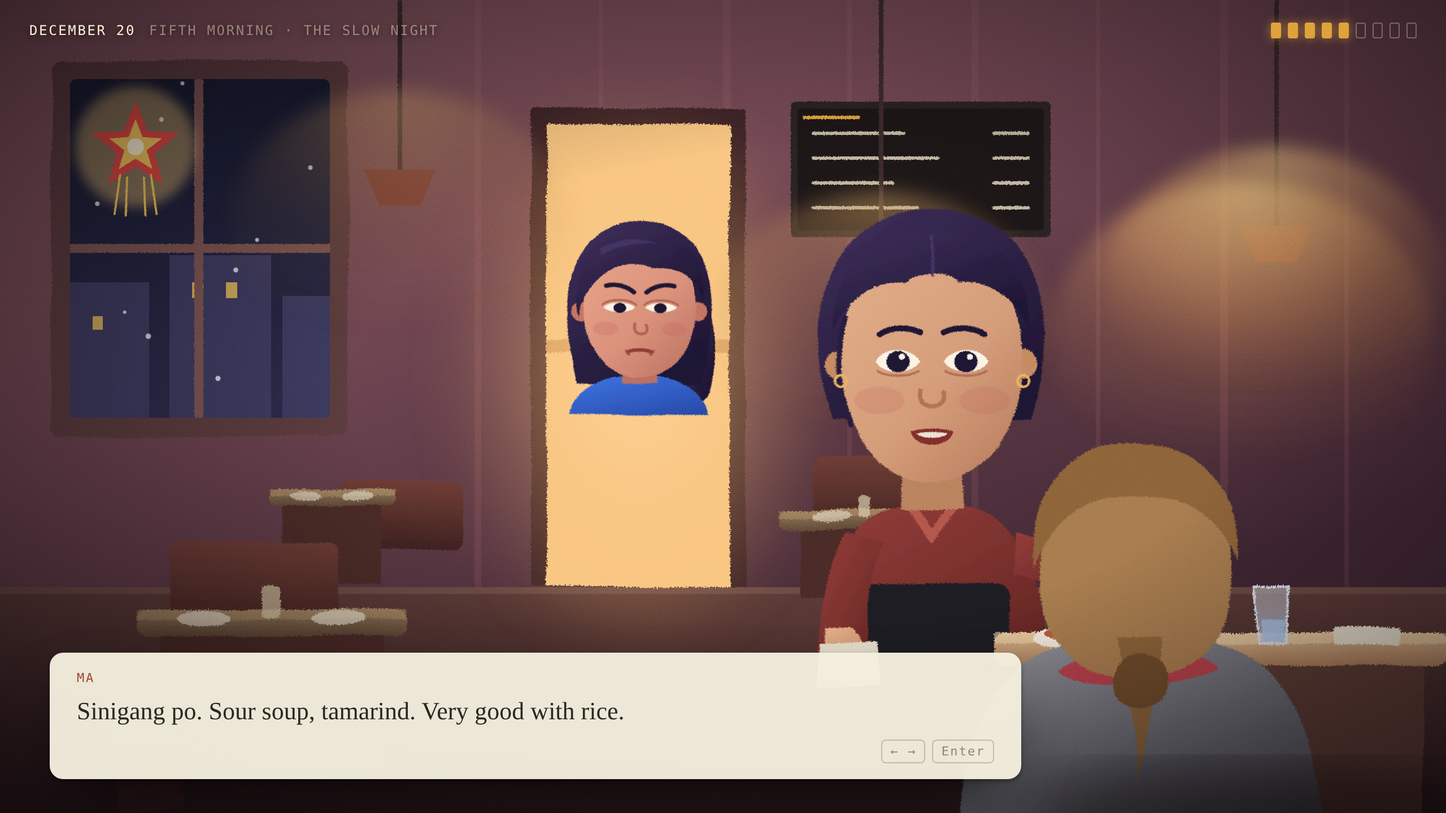
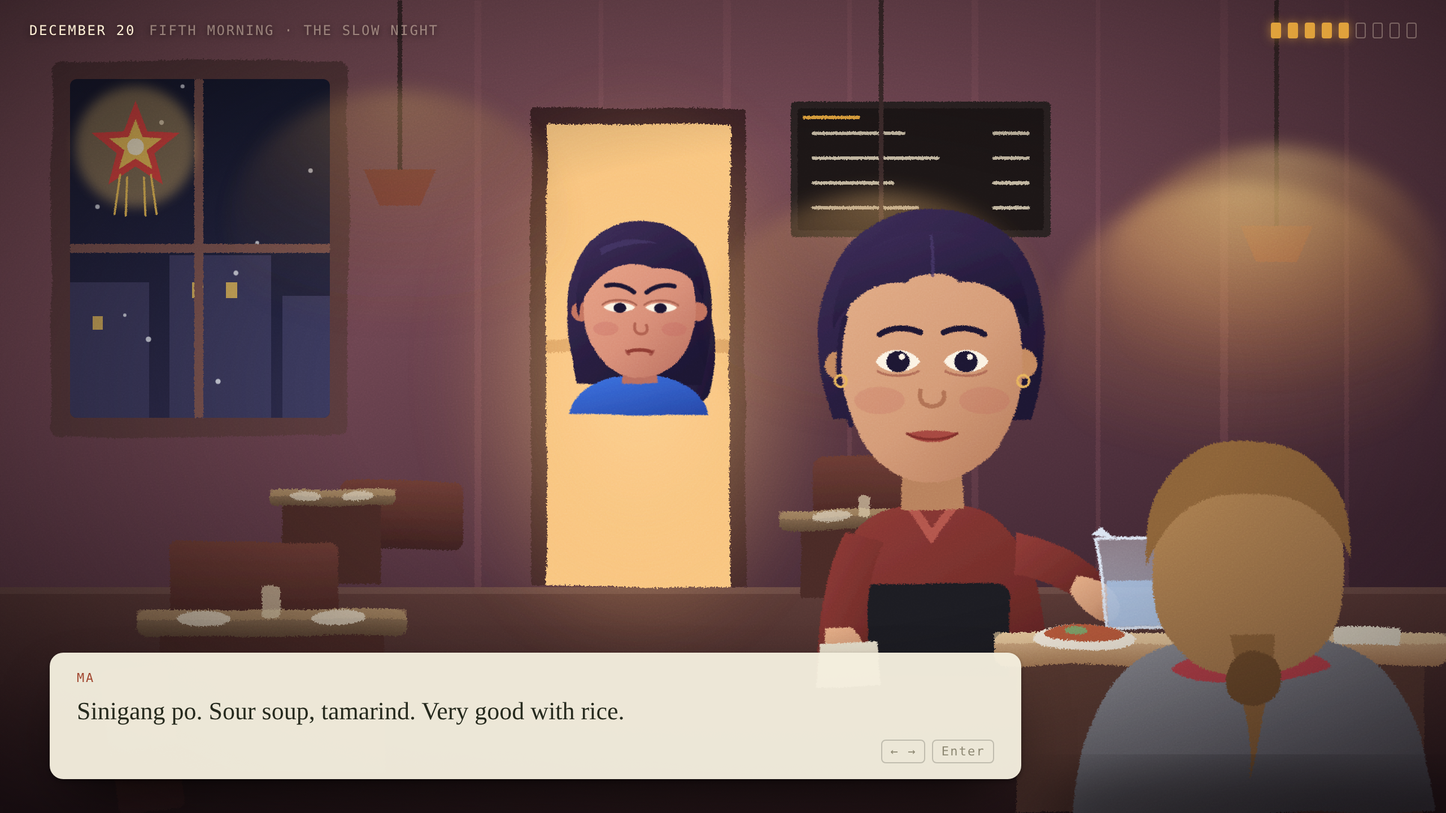
Restaurant: position the customer on a wrapper so the lean animation cannot override it
Claude-Session: https://claude.ai/code/session_01EQTHH2fQmMpKD6VoY7kv8Y

Changed region(s): [[0.6562, 0.5312, 1.0, 1.0], [0.625, 0.5312, 0.6562, 0.5625]]

diff --git a/assets/samples/scene-restaurant.html b/assets/samples/scene-restaurant.html
@@ -25,7 +25,7 @@
   .talk .m-a{animation:talk .28s steps(1,end) infinite}.talk .m-b{animation:talkB .28s steps(1,end) infinite}
   /* the customer leans back into the chair */
   @keyframes lean{0%,100%{transform:rotate(0)}50%{transform:rotate(-1.8deg) translateY(2px)}}
-  .lean{transform-origin:1110px 700px;animation:lean 5.2s ease-in-out infinite}
+  .lean{transform-origin:1010px 700px;animation:lean 5.2s ease-in-out infinite}
   /* Tala shifts her weight in the doorway */
   @keyframes sway{0%,100%{transform:translateX(0) rotate(0)}50%{transform:translateX(3px) rotate(.6deg)}}
   .sway{transform-origin:140px 340px;animation:sway 4.6s ease-in-out infinite}
@@ -347,7 +347,7 @@
   </g>
   <ellipse cx="1100" cy="300" rx="170" ry="140" fill="url(#pendant)" filter="url(#mid)" class="lamp"/>
   <!-- the customer, from behind, foreground right : nobody the story needs a face for -->
-  <g class="lean" transform="translate(100 0)">
+  <g transform="translate(100 0)"><g class="lean">
     <g filter="url(#rough)">
       <path d="M 850 720 C 856 600 910 560 1010 556 C 1110 560 1164 600 1170 720 Z" fill="url(#coat)"/>
       <path d="M 940 590 C 960 566 1060 566 1080 590 C 1064 606 956 606 940 590 Z" fill="#b7404a"/>
@@ -356,7 +356,7 @@
       <path d="M 992 560 C 1000 600 1010 640 1006 690 C 1020 640 1030 600 1030 560 Z" fill="#8b6238"/>
       <path d="M 1010 574 C 1030 574 1040 590 1036 608 C 1032 626 1000 630 990 612 C 984 596 992 574 1010 574 Z" fill="#6e4c2a"/>
     </g>
-  </g>
+  </g></g>
   <ellipse cx="1110" cy="716" rx="200" ry="40" fill="#000" opacity=".4" filter="url(#soft)"/>
 </svg></div>
 <div class="vig"></div><div class="grain"></div>
